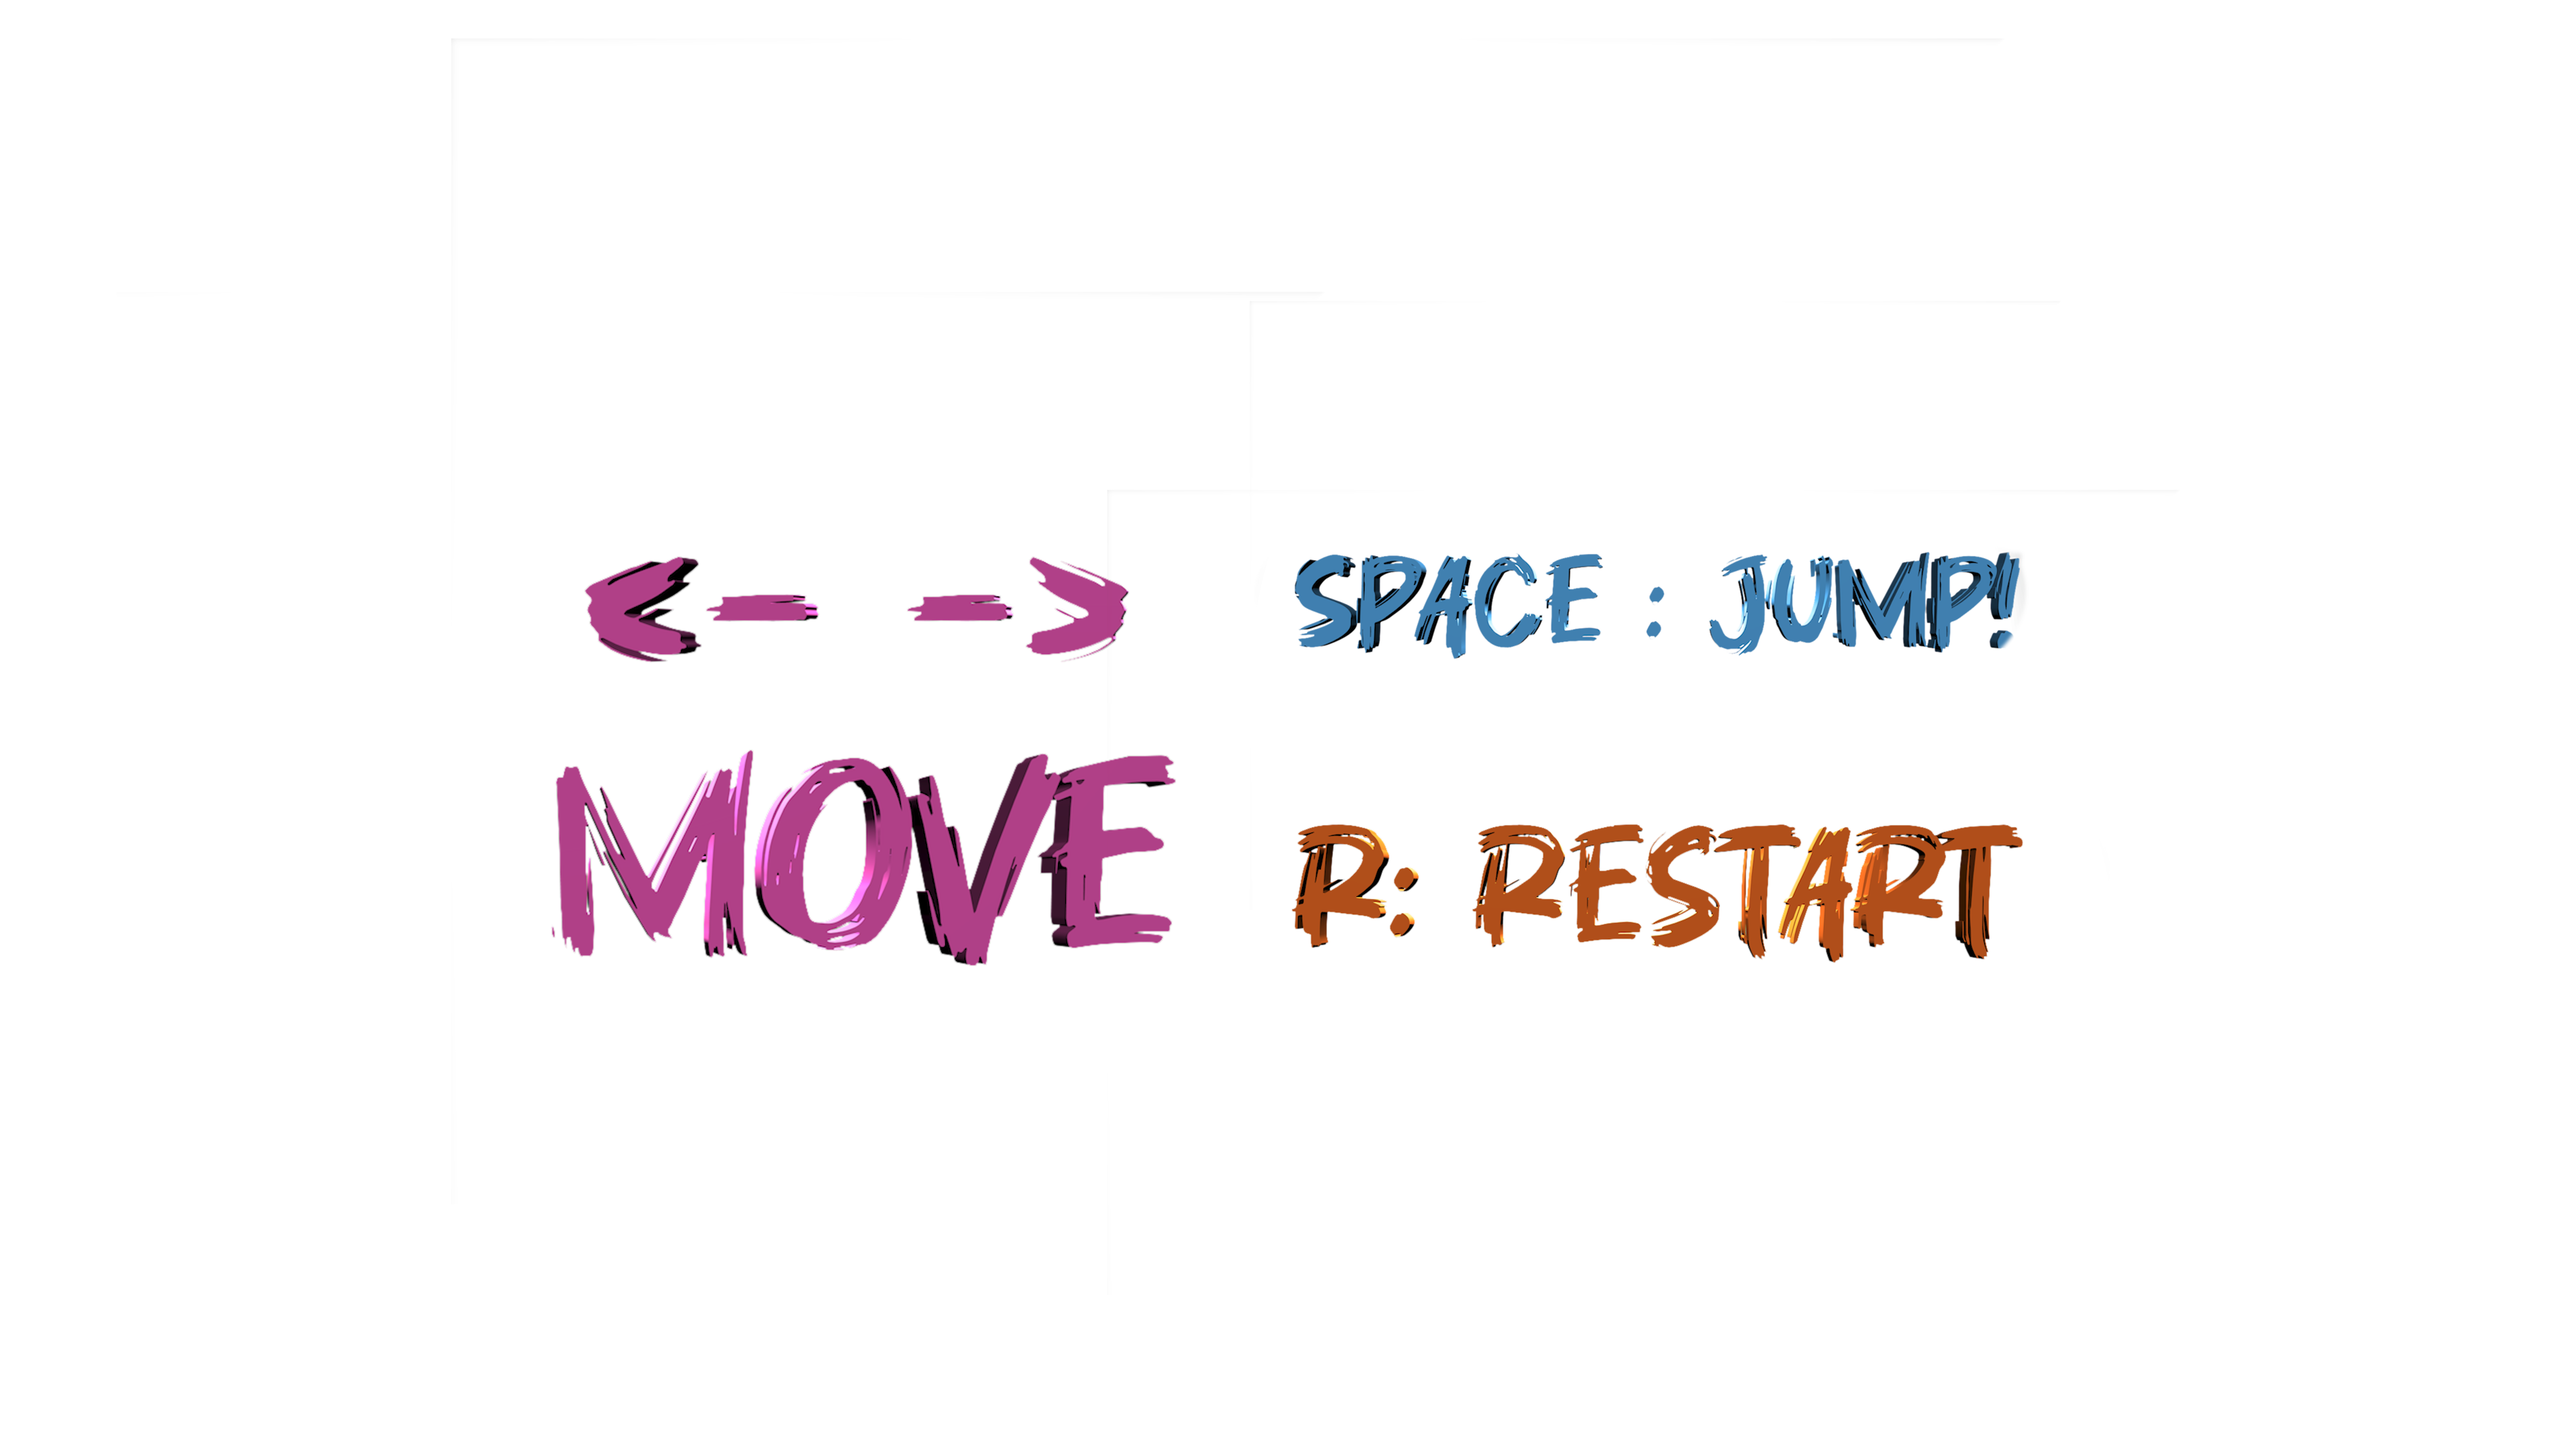
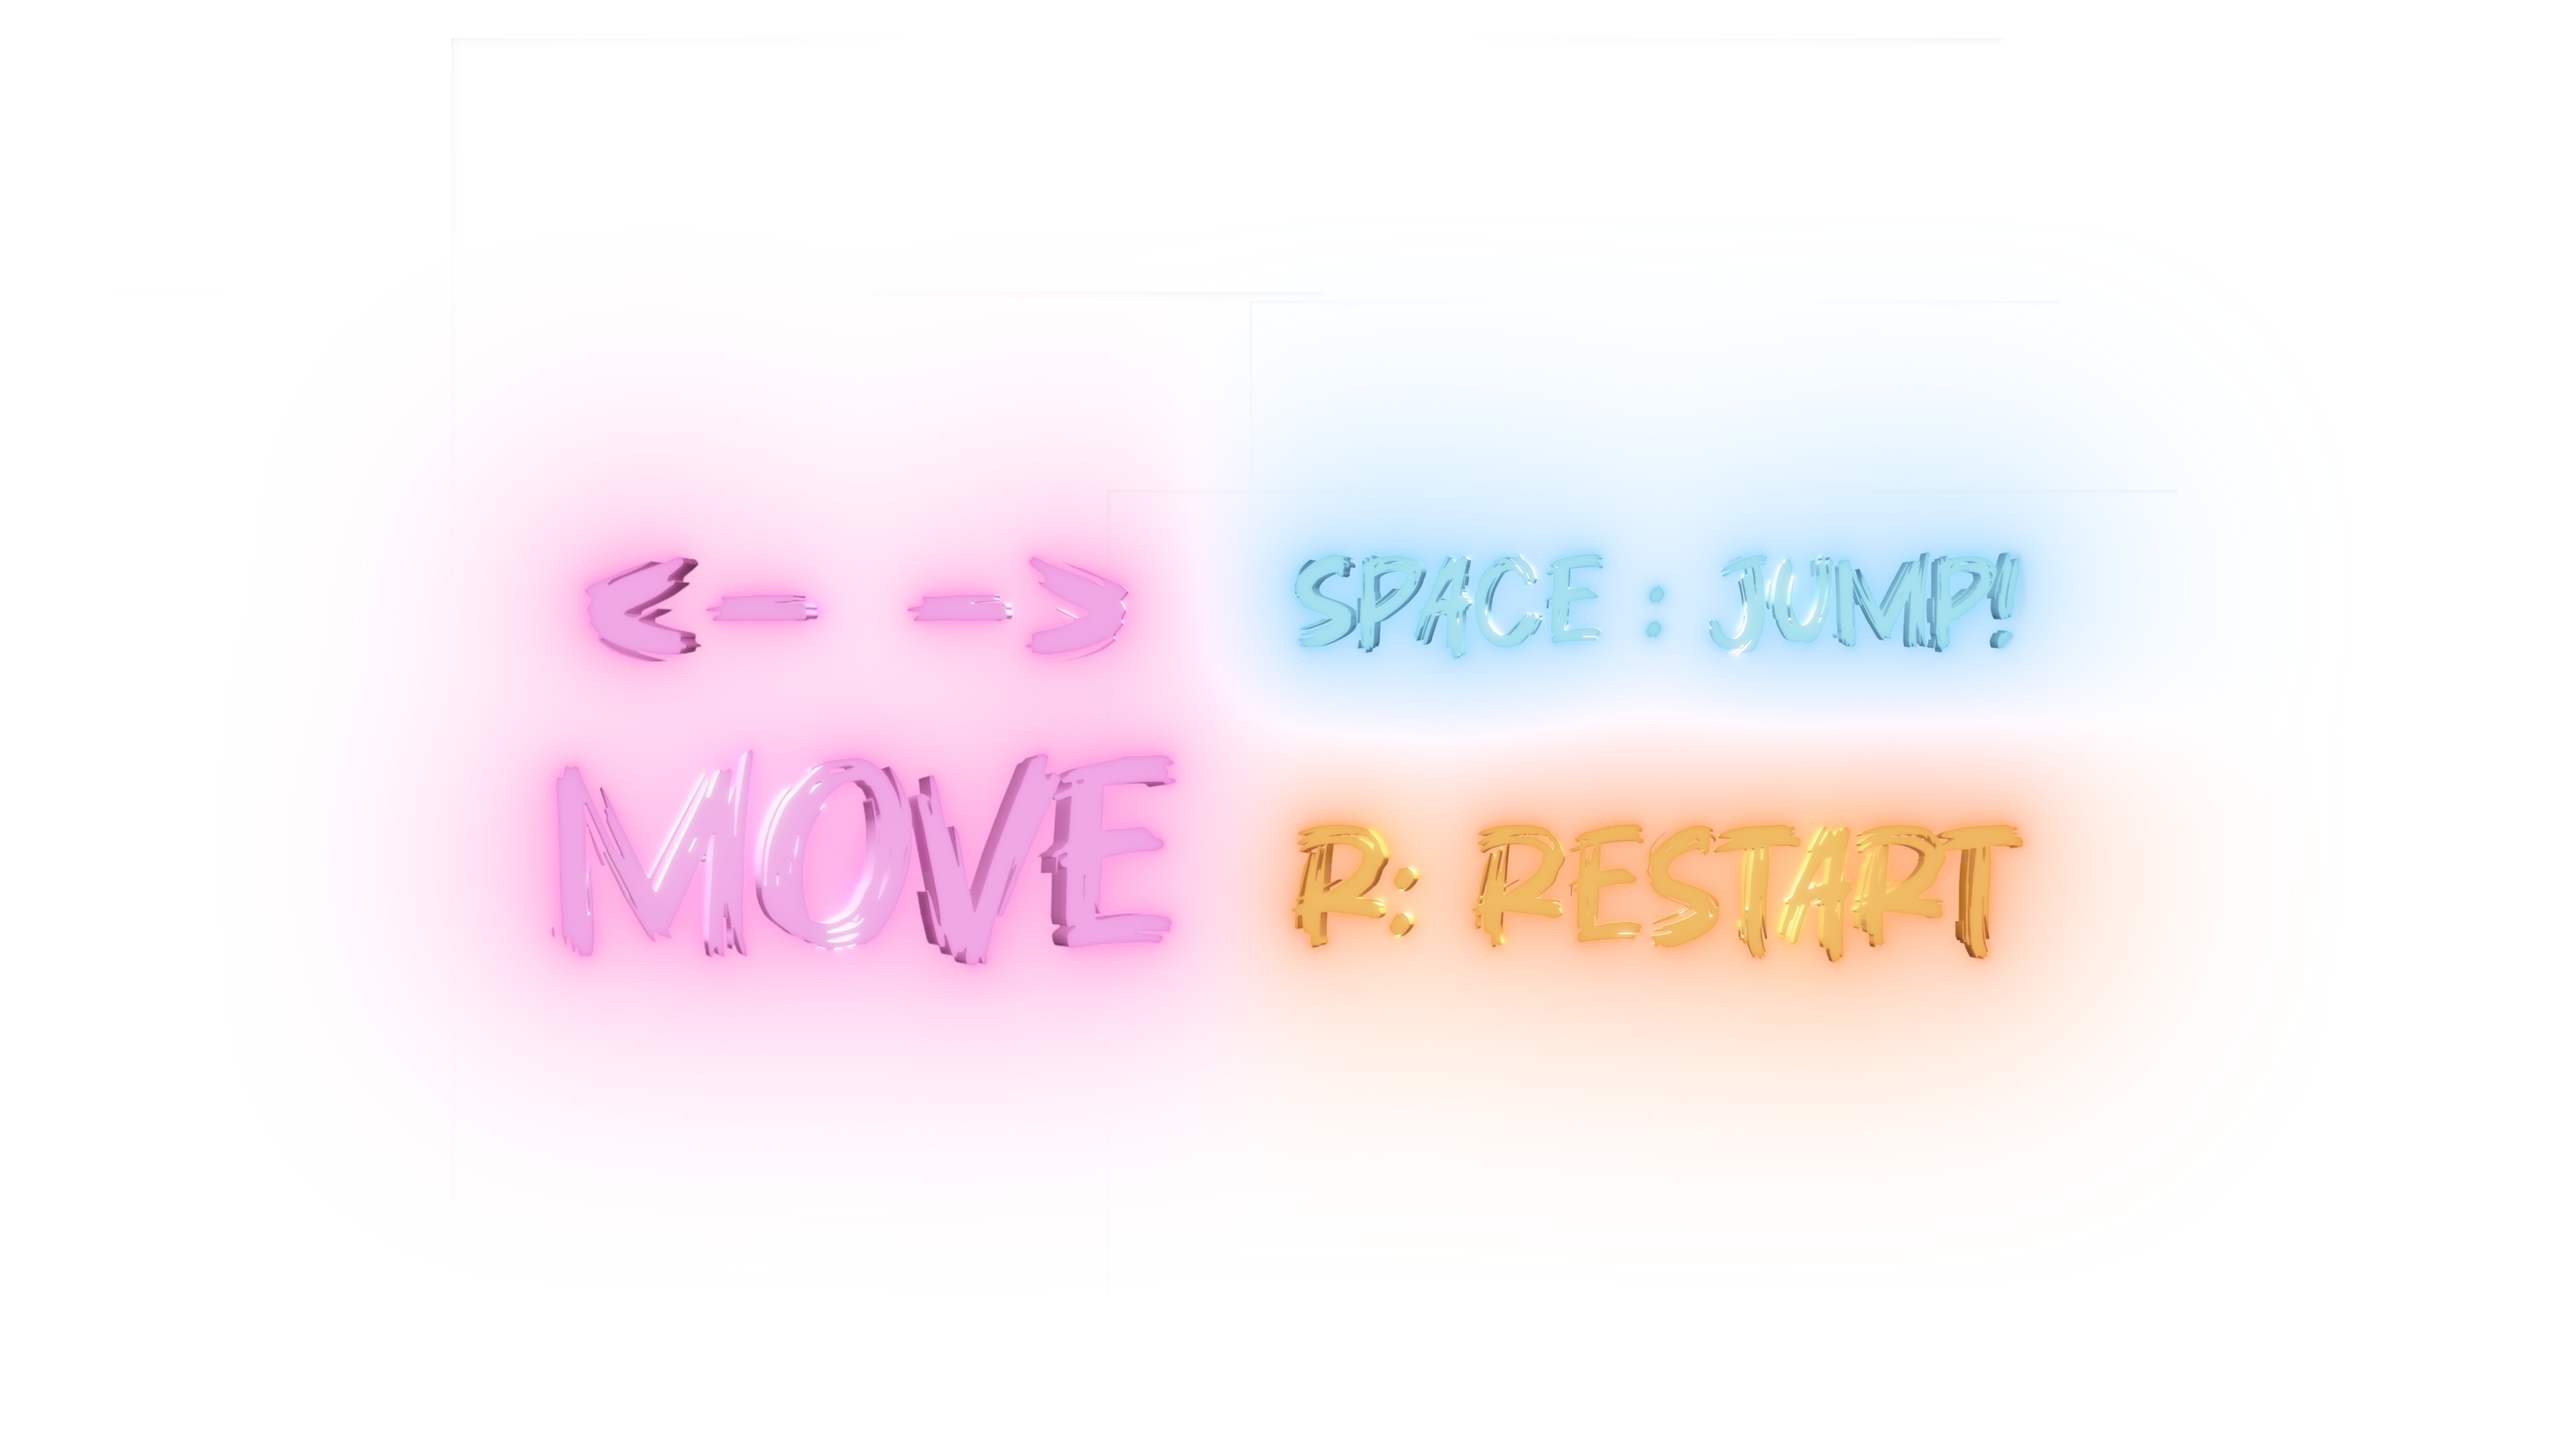
NEW

Changed region(s): [[0.1562, 0.3102, 0.8438, 0.7755]]

diff --git a/index.html b/index.html
@@ -50,7 +50,7 @@
         #ui-container { position: absolute; top: 20px; left: 20px; z-index: 10; display: flex; flex-direction: column; gap: 10px; pointer-events: none; }
         #score-box { display: flex; align-items: center; gap: 15px; }
         #score-box img { height: 100px; image-rendering: pixelated; }
-        #score { color: #e6c55c; font-family: 'Runtoe', 'Press Start 2P', sans-serif; font-size: 56px; text-shadow: 2px 2px 0px #000000; }
+        #score { color: #ffe500; font-family: 'Runtoe', 'Press Start 2P', sans-serif; font-size: 56px; text-shadow: 2px 2px 0px #ffe500, 0 0 10px #ffe500, 0 0 10px #ffe500; }
 
         #gauge-container { width: 0px; height: 0px; background-color: rgba(255, 255, 255, 0.2); border: none; border-radius: 8px; overflow: hidden; box-shadow: none; margin-top: -15px; }
         #gauge-fill { width: 0%; height: 100%; background-color: #00ffff; box-shadow: 0 0 10px #00ffff; transition: width 0.2s ease-out; }
@@ -61,13 +61,16 @@
         #gameOverMsg { display: none; white-space: nowrap; }
         
         @keyframes bonusBlink {
-            0% { transform: translate(-50%, -50%) scale(1); text-shadow: 4px 4px 0px #ff00ff, 0 0 20px #ff00ff; }
-            50% { transform: translate(-50%, -50%) scale(1.1); text-shadow: -4px -4px 0px #00ffff, 0 0 30px #00ffff; color: #fff;}
-            100% { transform: translate(-50%, -50%) scale(1); text-shadow: 4px 4px 0px #ff00ff, 0 0 20px #ff00ff; }
+            0% { transform: translate(-50%, -50%) scale(1); filter: drop-shadow(4px 4px 0px #ff00ff) drop-shadow(0 0 20px #ff00ff); }
+            50% { transform: translate(-50%, -50%) scale(1.1); filter: drop-shadow(-4px -4px 0px #00ffff) drop-shadow(0 0 30px #00ffff); }
+            100% { transform: translate(-50%, -50%) scale(1); filter: drop-shadow(4px 4px 0px #ff00ff) drop-shadow(0 0 20px #ff00ff); }
         }
         
-        #bonusMsg { display: none; color: #ffcc00; font-family: 'Runtoe', sans-serif; font-size: 70px; position: absolute; top: 30%; left: 50%; text-align: center; z-index: 20; animation: bonusBlink 0.5s infinite; }
-        #startMsg { display: none; color: #ffcc00; font-family: 'Runtoe', sans-serif; font-size: 60px; text-shadow: 2px 2px 0px #000, 0 0 20px #ff00ff; animation: promptBlink 0.5s infinite; z-index: 50; width: 100%; position: absolute; top: 40%; left: 50%; text-align: center; transform: translate(-50%, -50%); }
+        #bonusMsg { display: none; position: absolute; top: 30%; left: 50%; z-index: 20; animation: bonusBlink 0.5s infinite; width: 80%; max-width: 700px; }
+        #bonusMsg img { width: 100%; height: auto; display: block; margin: 0 auto; }
+        
+        #startMsg { display: none; position: absolute; top: 20%; left: 51%; z-index: 50; animation: promptBlink 0.5s infinite; width: 110%; max-width: 700px; transform: translate(-50%, -50%); }
+        #startMsg img { width: 100%; height: auto; display: block; margin: 0 auto; filter: drop-shadow(2px 2px 0px #000) drop-shadow(0 0 10px #ff00ff); }
 
         @keyframes comboPop {
             0% { transform: scale(1) rotate(-5deg); color: #ffff00; }
@@ -105,7 +108,7 @@
 
         #mobileCharSelectUI { position: absolute; bottom: 24%; left: 50%; transform: translateX(-50%); display: none; width: 100%; justify-content: center; gap: 40px; align-items: center; z-index: 30; }
         .m-btn { color: #ffff00; font-family: 'Runtoe', sans-serif; font-size: 50px; text-shadow: 2px 2px 0px #ff00ff; cursor: pointer; padding: 15px; user-select: none; opacity: 0; }
-        #pcCharSelectUI { position: absolute; bottom: 8%; left: 50%; transform: translateX(-50%); color: #ffff00; font-family: 'Runtoe', sans-serif; font-size: 40px; text-shadow: 2px 2px 0px #ff00ff; animation: promptBlink 1s infinite; text-align: center; z-index: 10; width: 100%; }
+        #pcCharSelectUI { position: absolute; bottom: 0%; left: 50%; transform: translateX(-50%); color: #ffff00; font-family: 'Runtoe', sans-serif; font-size: 40px; text-shadow: 2px 2px 0px #ff00ff; animation: promptBlink 1s infinite; text-align: center; z-index: 10; width: 100%; }
 
         #tapToStart { display: none; position: absolute; top: 50%; left: 50%; transform: translate(-50%, -50%); color: #fff; font-family: 'Runtoe', sans-serif; font-size: 50px; text-shadow: 2px 2px 0px #ff00ff; z-index: 25; animation: promptBlink 1s infinite; white-space: nowrap; pointer-events: none;}
 
@@ -137,8 +140,8 @@
         /* 📱 모바일 전용 UI & 폰트 크기 조정 */
         body.mobile-mode #score { font-size: 36px; }
         body.mobile-mode #score-box img { height: 60px; }
-        body.mobile-mode #bonusMsg { font-size: 45px; width: 100%; top: 35%; }
-        body.mobile-mode #startMsg { font-size: 40px; }
+        body.mobile-mode #bonusMsg { width: 90%; top: 35%; }
+        body.mobile-mode #startMsg { width: 85%; }
         body.mobile-mode #comboMsg { font-size: 40px; top: 15%; right: 5%; }
         body.mobile-mode .tut-text { font-size: 26px; }
         body.mobile-mode .m-btn { font-size: 35px; padding: 10px; }
@@ -155,6 +158,16 @@
             50% { opacity: 0.5; text-shadow: 2px 2px 0px #000, 0 0 20px #00ffff; }
             100% { opacity: 1; text-shadow: 2px 2px 0px #000, 0 0 10px #ff00ff; }
         }
+
+        #credit-btn { position: absolute; bottom: 20px; right: 20px; width: 80px; height: auto; cursor: pointer; z-index: 40; transition: transform 0.2s; }
+        #credit-btn:hover { transform: scale(1.1); }
+        body.mobile-mode #credit-btn { width: 60px; bottom: 15px; right: 15px; }
+        
+        #credit-modal { display: none; position: absolute; top: 0; left: 0; width: 100%; height: 100%; background-color: rgba(0, 0, 0, 0.85); z-index: 200; flex-direction: column; justify-content: center; align-items: center; }
+        #credit-modal img { max-width: 90%; max-height: 80%; object-fit: contain; }
+        
+        #credit-close-txt { position: absolute; bottom: 13%; left: 50%; transform: translateX(-50%); color: #fff; font-family: 'Runtoe', sans-serif; font-size: 40px; animation: promptBlink 1s infinite; text-shadow: 2px 2px 0px #ff00ff; cursor: pointer; white-space: nowrap; }
+        body.mobile-mode #credit-close-txt { font-size: 26px; bottom: 8%; }
     </style>
     
     <script src="https://cdnjs.cloudflare.com/ajax/libs/three.js/r128/three.min.js"></script>
@@ -190,8 +203,8 @@
             <span id="gameover-subtext" style="font-size: 0px; color:#fff;">PRESS 'R' TO SELECT CHARACTER</span>
         </div>
         
-        <div id="bonusMsg">POP THAT BODY LIKE!</div>
-        <div id="startMsg">GET COINS TO POP!</div>
+        <div id="bonusMsg"><img src="POP THAT.png" alt="POP THAT BODY LIKE!"></div>
+        <div id="startMsg"><img src="GET COINS TO POP.png" alt="GET COINS TO POP!"></div>
         <div id="comboMsg">2COMBO!</div>
         
         <video id="wastedVideo" src="WASTED.mp4" playsinline muted style="position: absolute; top: 0; left: 0; width: 100%; height: 100%; object-fit: cover; z-index: 90; display: none;"></video>
@@ -220,12 +233,16 @@
                 <div class="char-card" data-char="6"></div>
             </div>
             
-            <div id="pcCharSelectUI">&lt;- -&gt; TO CHOOSE CHARACTER!</div>
+            <div id="pcCharSelectUI">
+                <img src="TO CHOOSE CHARACTER!.png" alt="Choose Character" style="width: 600px; image-rendering: pixelated;">
+            </div>
             <div id="mobileCharSelectUI">
                 <div class="m-btn" id="m-btn-left">&lt;-</div>
                 <div class="m-btn" id="m-btn-go">GO!</div>
                 <div class="m-btn" id="m-btn-right">-&gt;</div>
             </div>
+
+            <img id="credit-btn" src="CREDIT UI.png" alt="CREDIT">
         </div>
 
         <div id="tutorial-overlay">
@@ -238,6 +255,11 @@
 
         <div id="speed-effect"></div>
         <div id="crt-overlay"></div>
+        
+        <div id="credit-modal">
+            <img src="CREDIT.PNG" alt="CREDIT SCREEN">
+            <div id="credit-close-txt">TAP TO CLOSE</div>
+        </div>
     </div>
 
 <script>
@@ -1413,6 +1435,15 @@
         if (typeof composer !== 'undefined') composer.render(); else renderer.render(scene, camera);
     }
     animate();
+
+    const creditBtn = document.getElementById('credit-btn');
+    const creditModal = document.getElementById('credit-modal');
+    function openCredit(e) { e.preventDefault(); e.stopPropagation(); creditModal.style.display = 'flex'; }
+    creditBtn.addEventListener('click', openCredit);
+    creditBtn.addEventListener('touchstart', openCredit, {passive: false});
+    function closeCredit(e) { e.preventDefault(); e.stopPropagation(); creditModal.style.display = 'none'; }
+    creditModal.addEventListener('click', closeCredit);
+    creditModal.addEventListener('touchstart', closeCredit, {passive: false});
 </script>
 </body>
 </html>
